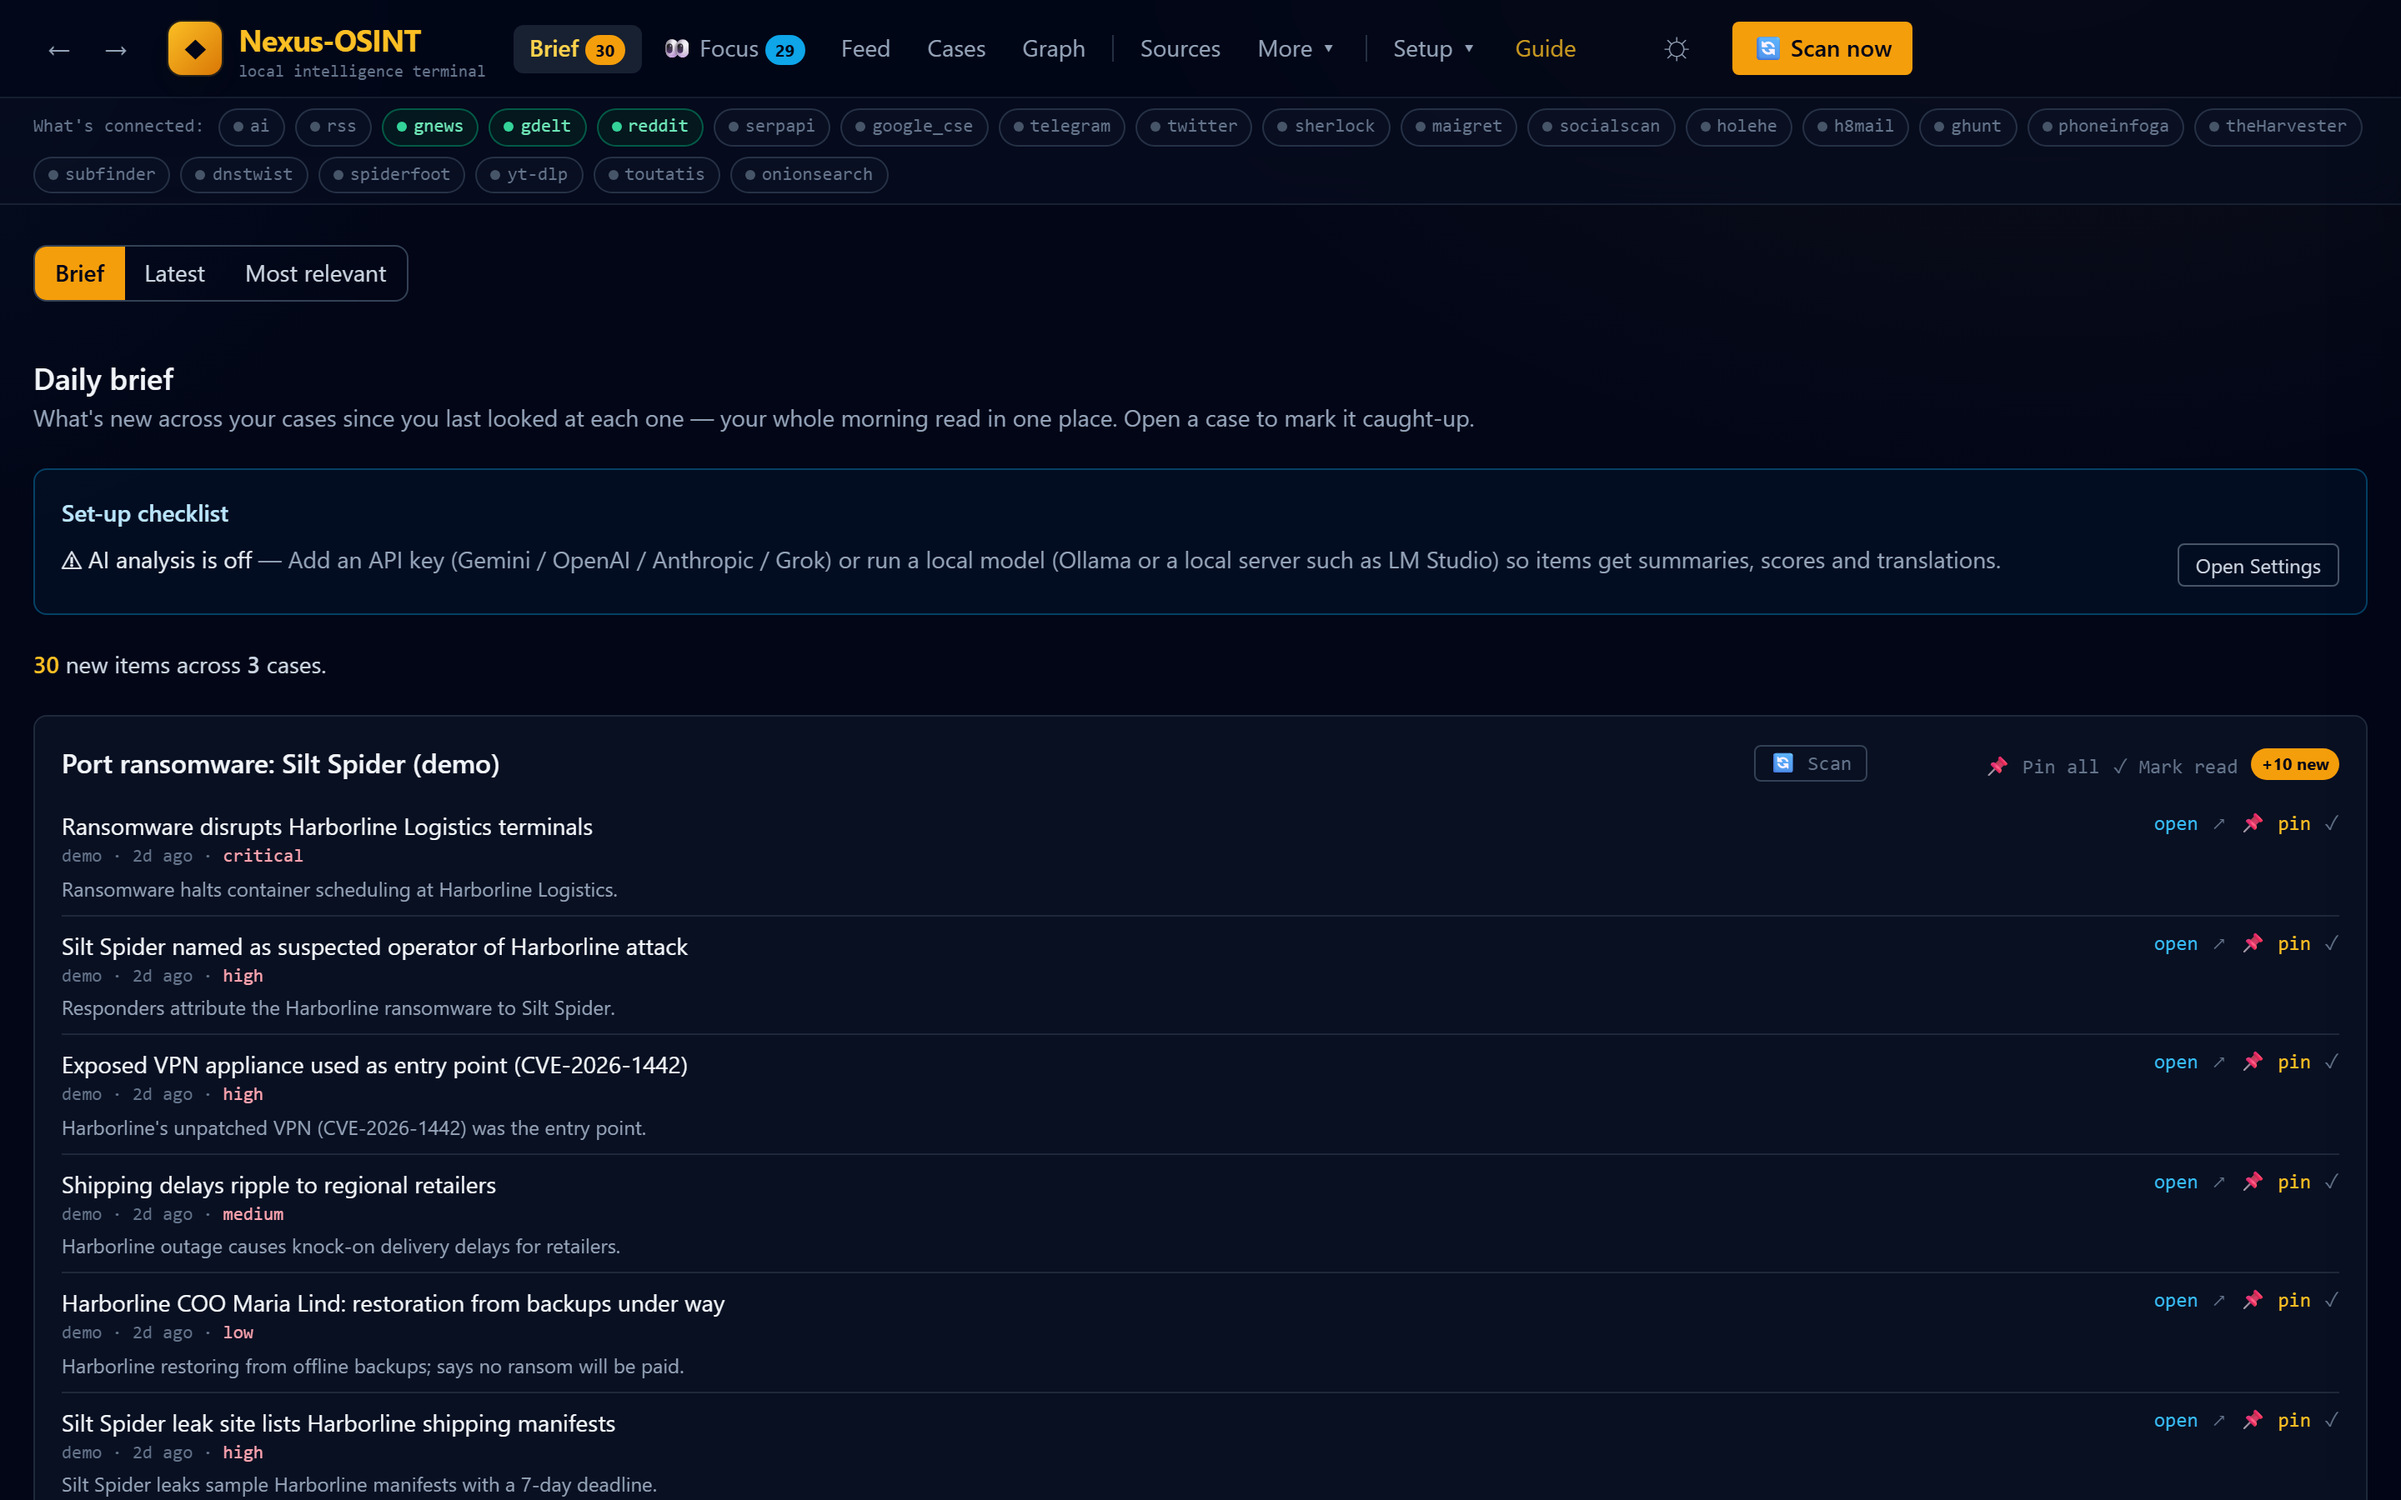
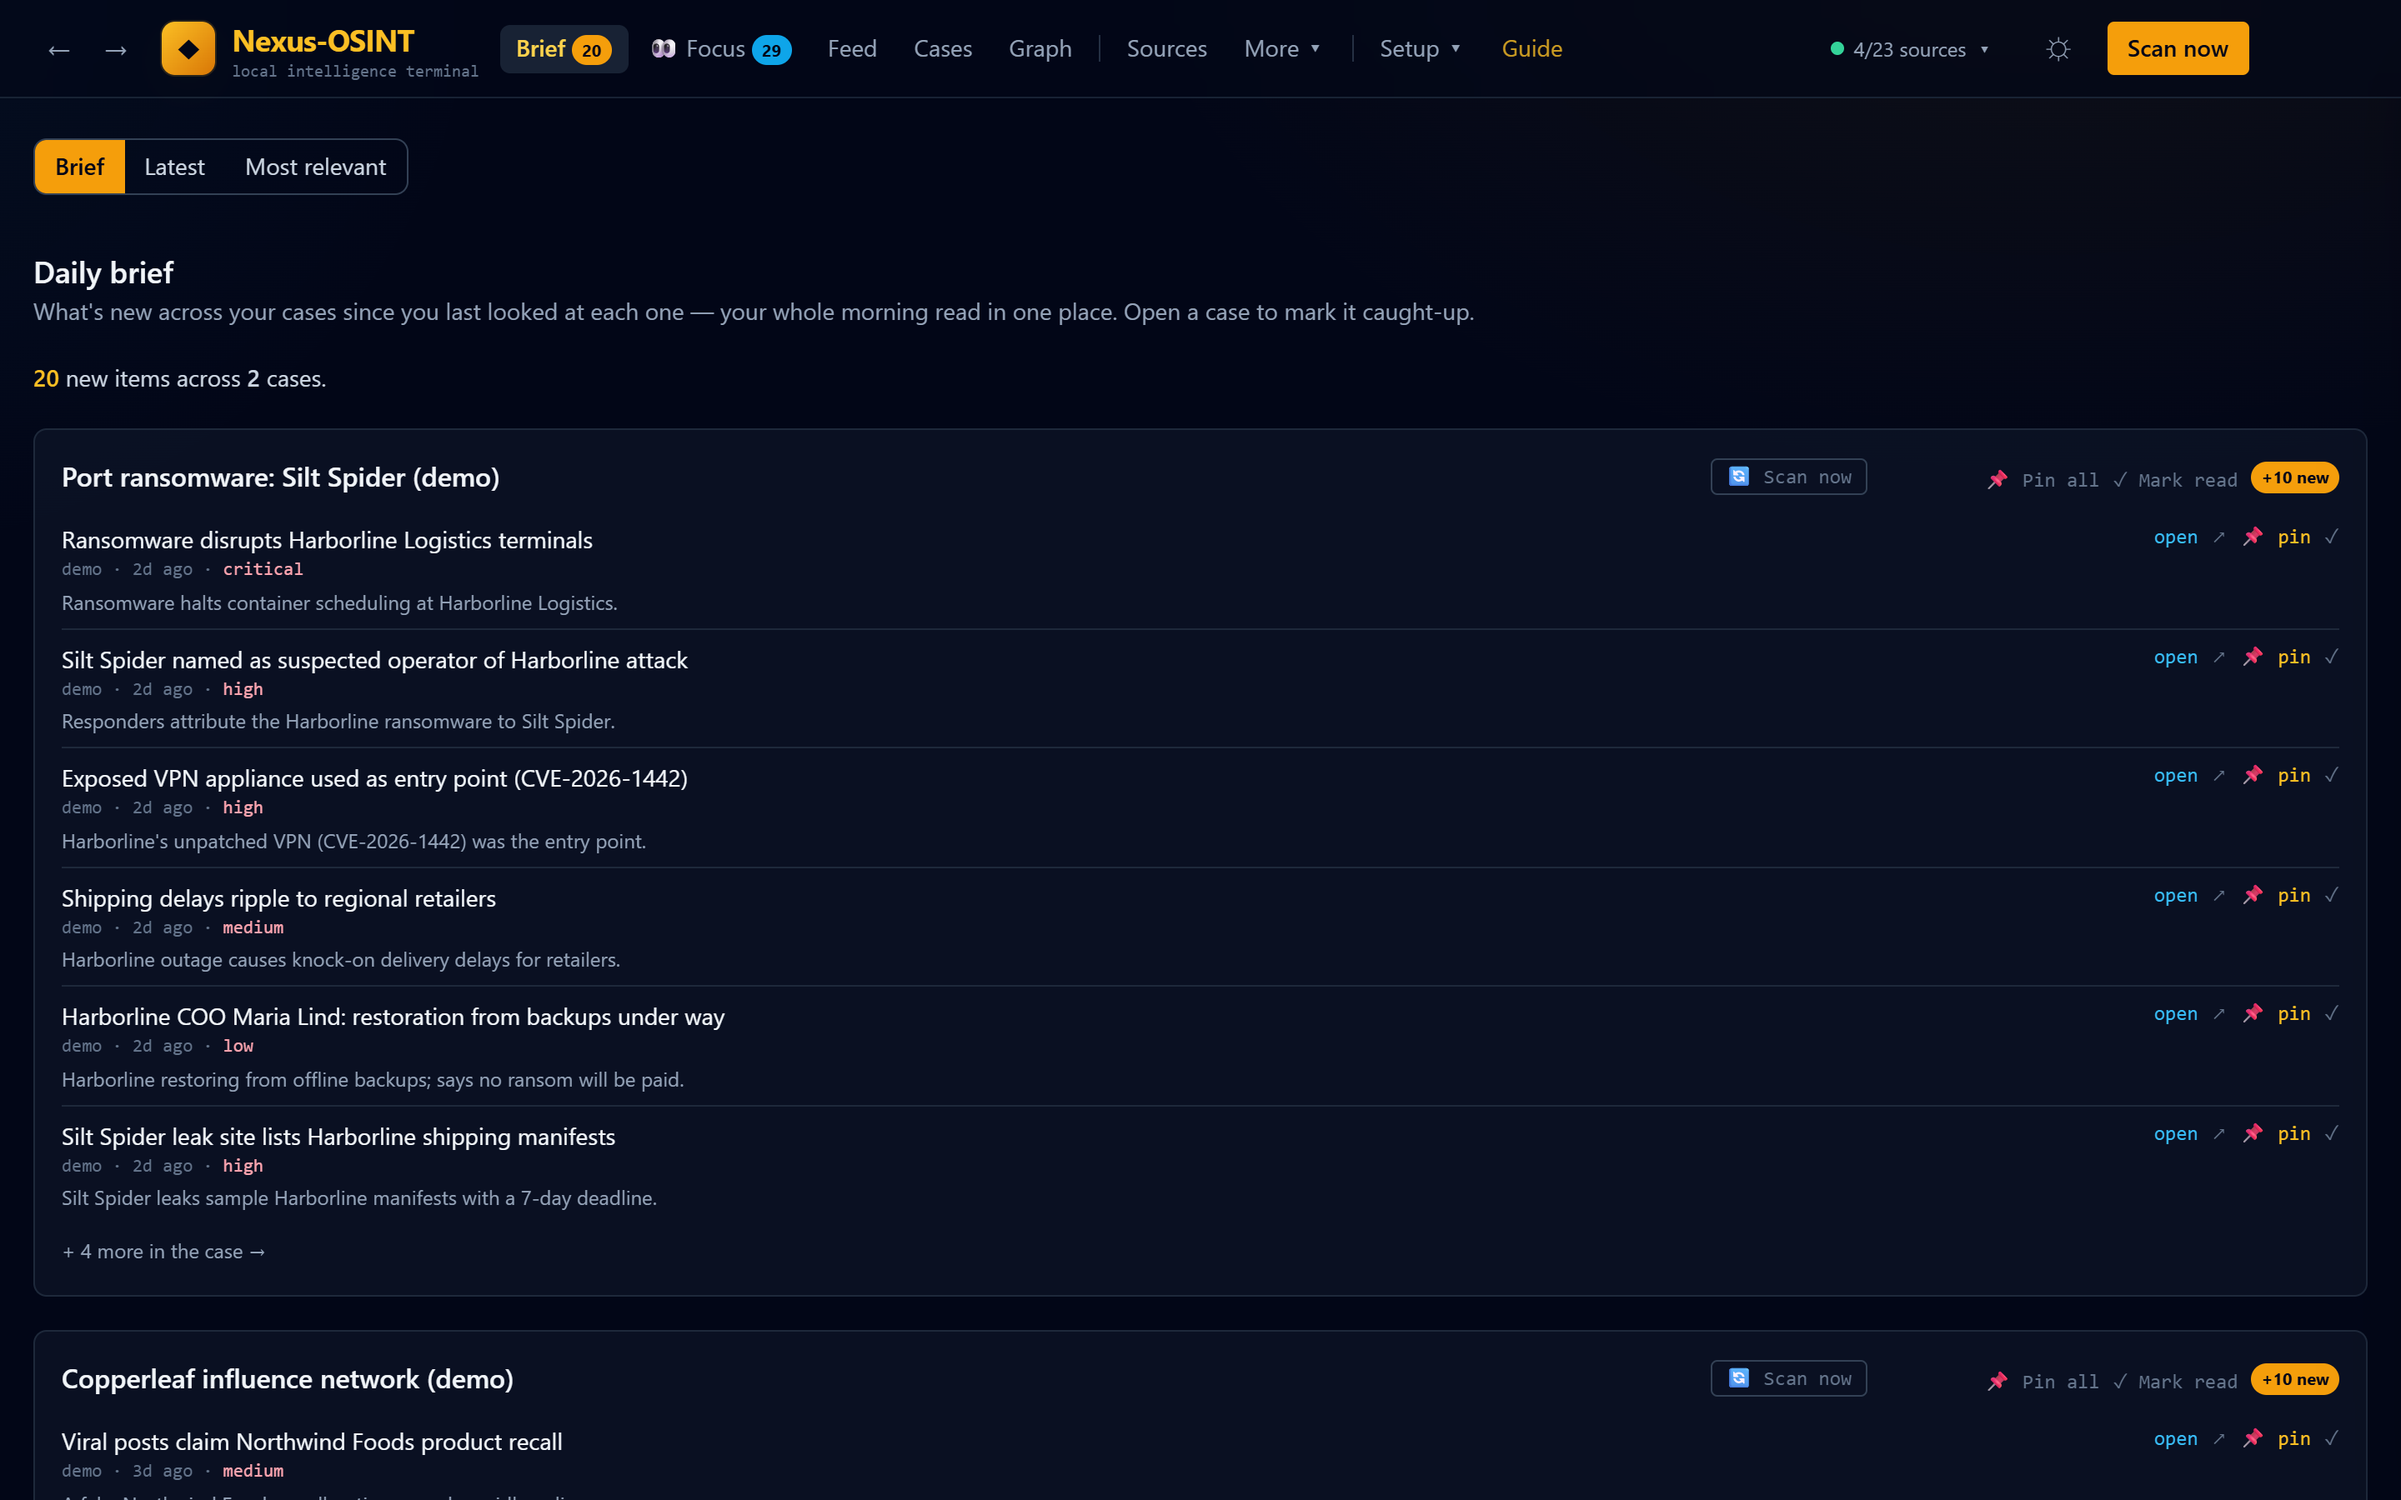
docs: re-capture README screenshots on the redesigned UI; add Setup
- All README screenshots re-captured from the fictional demo dataset on the
  v1.2 interface (calmer header, simpler cards, collapsible tracking words).
- New Setup checklist screenshot and a short tour entry for it.
- Brief page: the Scan now button no longer wraps the navigation onto two
  lines (no icon, nowrap, short scanning indicator).
- capture_screenshots.py falls back to the system Edge when Playwright's
  Chromium is not installed.

diff --git a/nexus/web/templates/brief.html b/nexus/web/templates/brief.html
@@ -6,9 +6,10 @@
   <button hx-post="/scan" hx-swap="none"
           hx-indicator="#brief-spin"
           hx-on::after-request="window.location.href='/brief'"
-          class="px-3 py-1.5 rounded bg-amber-500 hover:bg-amber-400 text-slate-950 text-sm font-semibold">
-    &#128260; Scan now</button>
-  <span id="brief-spin" class="htmx-indicator mono text-xs text-amber-400">scanning&hellip; this can take a minute or two</span>
+          title="Collect from every source (can take a minute or two)"
+          class="px-3 py-1.5 rounded bg-amber-500 hover:bg-amber-400 text-slate-950 text-sm font-semibold whitespace-nowrap">
+    Scan now</button>
+  <span id="brief-spin" class="htmx-indicator mono text-xs text-amber-400">scanning&hellip;</span>
 {% endblock %}
 {% block content %}
 <section class="space-y-5">

diff --git a/scripts/capture_screenshots.py b/scripts/capture_screenshots.py
@@ -40,7 +40,10 @@ def _shot(page: Page, name: str) -> None:
 
 def capture(base: str) -> None:
     with sync_playwright() as p:
-        browser = p.chromium.launch()
+        try:
+            browser = p.chromium.launch()
+        except Exception:  # Playwright's Chromium not installed: use the system Edge
+            browser = p.chromium.launch(channel="msedge")
         page = browser.new_page(viewport=VIEWPORT, device_scale_factor=2)
 
         # Feed: scroll past the onboarding card to the analysed items.
@@ -64,6 +67,7 @@ def capture(base: str) -> None:
             ("timeline", "/cases/1?tab=timeline", 1200),
             ("entity", "/entity?name=Nightjar%20Group", 1200),
             ("settings", "/settings", 800),
+            ("setup", "/setup", 800),
         ):
             _open(page, f"{base}{path}", wait)
             _shot(page, name)

diff --git a/README.md b/README.md
@@ -191,7 +191,15 @@ reach the network. Collected text is untrusted input, so the assistant's output
 is rendered as text, never HTML: a prompt injection hidden in a scraped post
 cannot become script execution in your browser.
 
-#### 8. Settings that explain themselves
+#### 8. A setup checklist, and settings that explain themselves
+
+<img src="docs/media/setup.png" alt="Setup checklist: five steps with live status (sources, AI, email, daily brief, daily case reports) and the daily-brief scheduling card" width="100%">
+
+**Setup** walks through five short steps, each with a live status and one button:
+sources (several work with no keys), an optional AI provider, the email
+connection, the daily brief (on/off, local time, "scan first", a test send and
+when it last went out / goes out next) and per-case daily reports. Only the
+first step is needed to start collecting.
 
 <img src="docs/media/settings.png" alt="Settings page: AI provider choice, key editor showing set / not set only, and source configuration" width="100%">
 

diff --git a/CHANGELOG.md b/CHANGELOG.md
@@ -35,6 +35,10 @@ that makes configuring sources, AI, email and the daily brief straightforward.
 - Per-case daily reports can be switched on from the Setup page, and each
   case's Reports tab shows the next and last report and whether it is emailed.
 - The README demo video now shows the redesigned interface.
+- README screenshots re-captured on the redesigned interface, plus the Setup checklist.
+
+### Fixed
+- The Brief page's Scan now button no longer wraps the navigation onto two lines.
 
 ## [1.1.0] - 2026-10-17
 
